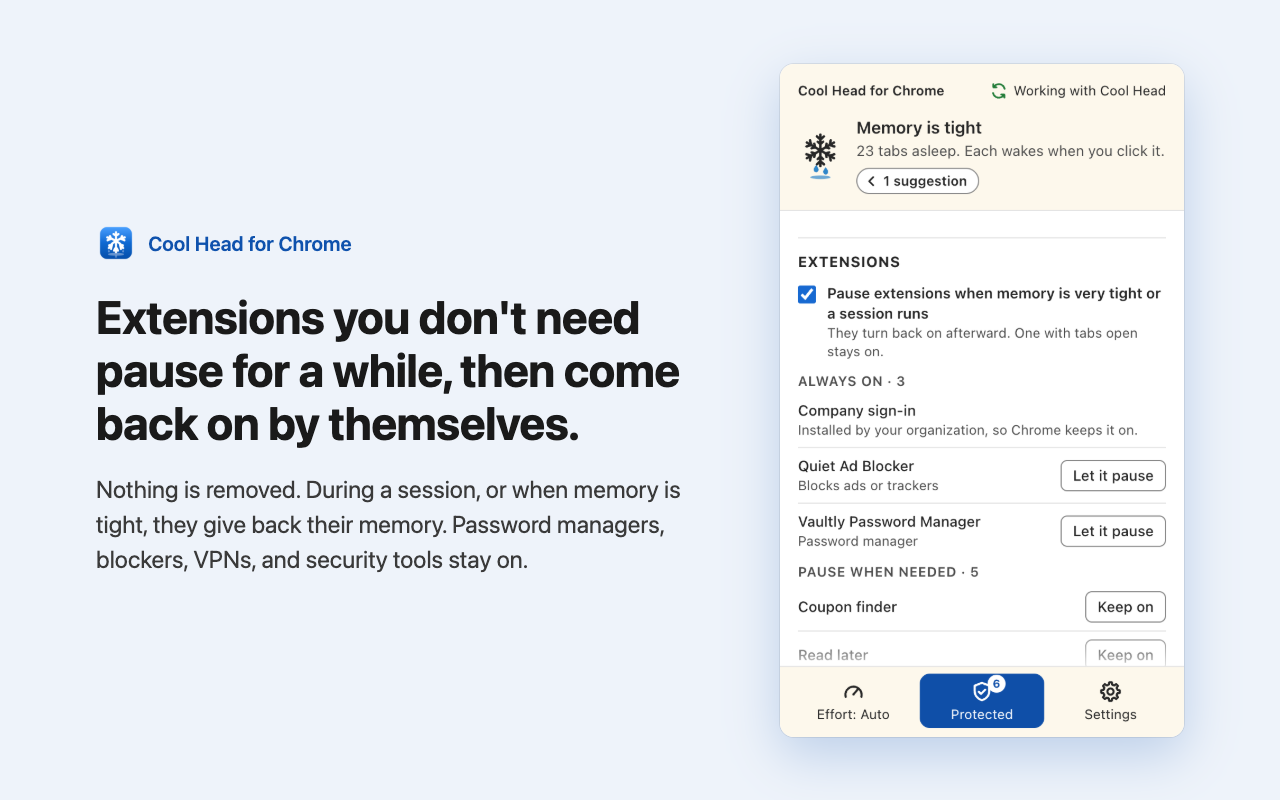
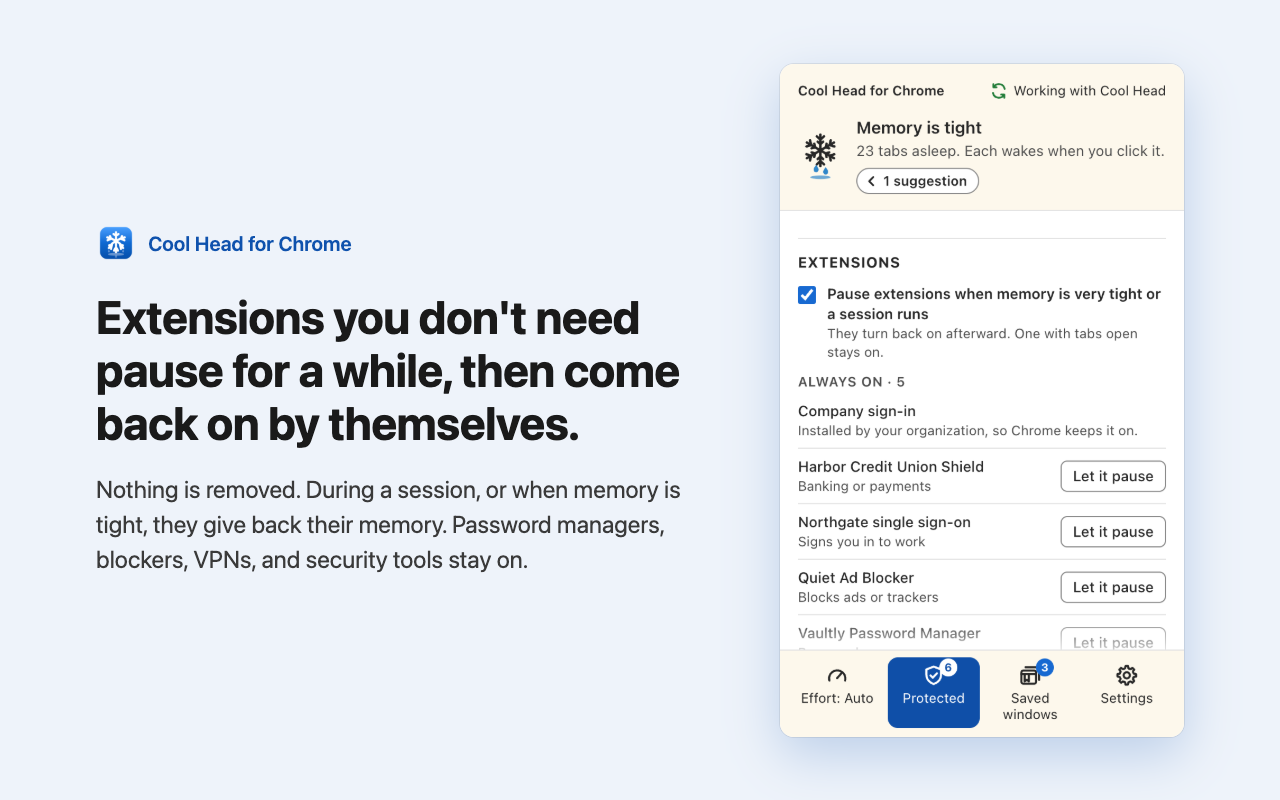
Cool Head for Chrome 1.3.0: version, store images, and listing
The store set shows Saved windows in place of Start a session, and the listing's test steps cover the zzZ mark and Saved windows. The preview renderer can scroll a screen for a store image.

Assisted-by: Claude Code:claude-opus-5-5

diff --git a/Extension/chrome/store/make-images.py b/Extension/chrome/store/make-images.py
@@ -34,7 +34,7 @@ SHOTS = [
     ("1-tabs", "home-light.png", "home", "light", "Tabs you aren't using go to sleep, so Chrome holds less memory.", "A sleeping tab stays in your tab bar and reloads when you click it. Nothing closes."),
     ("2-extensions", "protected-extensions-light.png", "protected-ext", "light", "Extensions you don't need pause for a while, then come back on by themselves.", "Nothing is removed. During a session, or when memory is tight, they give back their memory. Password managers, blockers, VPNs, and security tools stay on."),
     ("3-protected", "protected-light.png", "held", "light", "Calls, sound, unsent typing, and sites you choose stay awake.", "Protected shows each tab it keeps loaded and why, so you choose: keep it, sleep it, or close it."),
-    ("4-session", "start-session-light.png", "start", "light", "Start a session for the task in front of you.", "Tick the tabs a meeting or project needs. The rest sleep until you want them back."),
+    ("4-windows", "saved-windows-light.png", "windows", "light", "Done with a window for now? Save it and close it.", "Its tabs go into a bookmark folder. Reopen it later with every tab asleep, or with Chrome's own Open all."),
     ("5-alone", "alone-dark.png", "alone", "dark", "Works on its own, or with Cool Head on a Mac.", "On its own, you set the Effort: how many tabs stay loaded. With Cool Head, a free Mac app, tabs sleep only when memory is actually short."),
 ]
 

diff --git a/Extension/chrome/store/listing.md b/Extension/chrome/store/listing.md
@@ -42,7 +42,7 @@ Open source (AGPL): https://github.com/ThePhilDiamond/CoolHead
 
 **Graphic assets:**
 - Store icon, 128 by 128: `Extension/chrome/icons/icon128.png`, the melting snowflake, the same as the package's.
-- Screenshots, 1280 by 800, in this order: `1-tabs.png`, `2-extensions.png`, `3-protected.png`, `4-session.png`, `5-alone.png`.
+- Screenshots, 1280 by 800, in this order: `1-tabs.png`, `2-extensions.png`, `3-protected.png`, `4-windows.png`, `5-alone.png`.
 - Small promo tile, 440 by 280: `promo-tile.png`.
 - Marquee promo tile, 1400 by 560: `marquee-tile.png`.
 
@@ -67,7 +67,7 @@ Reduces how much memory Chrome uses. It puts tabs the user isn't using to sleep 
 | nativeMessaging | Optionally links to Cool Head, a Mac app, through its helper, so tabs sleep only when the Mac's memory is short. Only counts are sent (tabs asleep, tabs held by reason), never addresses or titles, and only on the Mac. |
 | alarms | Wakes the service worker to put tabs to sleep after the person leaves them, and to find kept tabs again after Chrome restarts. |
 | contextMenus | Adds "Keep this tab loaded" and "Keep every tab of this site loaded" checkboxes to the page and toolbar menus. |
-| scripting | Registers its two page scripts, which say only whether a page has unsent typing or a live call, and runs them in tabs already open when the person turns on "Unsent typing and calls". Neither reads page content. Just before a tab sleeps, it also runs one line in that tab that puts "zzZ" before the page's title, so the person can see the tab is asleep; the page's own title comes back when it wakes. |
+| scripting | Registers its two page scripts, which say only whether a page has unsent typing or a live call, and runs them in tabs already open when the person turns on "Unsent typing and calls". Neither reads page content. Just before a tab sleeps, it also runs a short script in that tab that puts "zzZ" before the page's title, so the person can see the tab is asleep; the page's own title comes back when it wakes. |
 | favicon | Shows each tab's icon in the popup's lists, from Chrome's own icon cache. |
 | system.memory | Reads the computer's free memory, to show and decide how hard to work. |
 | management (optional, asked for when used) | Asked for only when the person turns on "Pause extensions", or asks to remove a tab suspender after its tabs are moved. During a session, or when Cool Head reports memory is very tight, pauses extensions the person hasn't kept on, and turns them back on when the session ends or memory clears. Never pauses an extension with tabs open on its own pages. Removing a suspender uses Chrome's own confirmation. |
@@ -95,8 +95,9 @@ The extension works on its own; the Cool Head Mac app is optional and not needed
 1. Open several tabs, then click the toolbar button. Effort, in the bottom bar, sets how many of the most used tabs stay loaded (Balanced: 3). Leave a tab and it goes to sleep 30 seconds later; it stays in the tab bar and reloads when clicked.
 2. Play a video or sound in a tab: it stays awake and appears in Protected with Keep, Sleep, and Close.
 3. Click "Start a session", keep a few tabs ticked, and press Start: the unticked tabs sleep. End the session from the menu.
-4. Press Command-Shift-S (Ctrl+Shift+S on Windows and Linux) on a tab: it sleeps, and the next tab to its right shows. Press it again to sleep that one too.
-5. Optional: in Settings, turn on "Keep tabs with unsent typing or a call awake" and allow access, then type in a form without sending it; that tab is held as "Unsent typing".
+4. Press Command-Shift-S (Ctrl+Shift+S on Windows and Linux) on a tab: it sleeps, and the next awake tab to its right shows. Press it again to sleep that one too.
+5. Optional: in Settings, turn on "Keep tabs with unsent typing or a call awake" and allow access, then type in a form without sending it; that tab is held as "Unsent typing". With that access on, a tab that goes to sleep shows "zzZ" before its title.
+6. Click Saved windows in the bottom bar, then Save and close, and allow bookmarks when Chrome asks: the window closes and appears under Saved. Reopen brings its tabs back asleep in a new window and removes the folder.
 No account or sign-in is needed.
 ```
 
